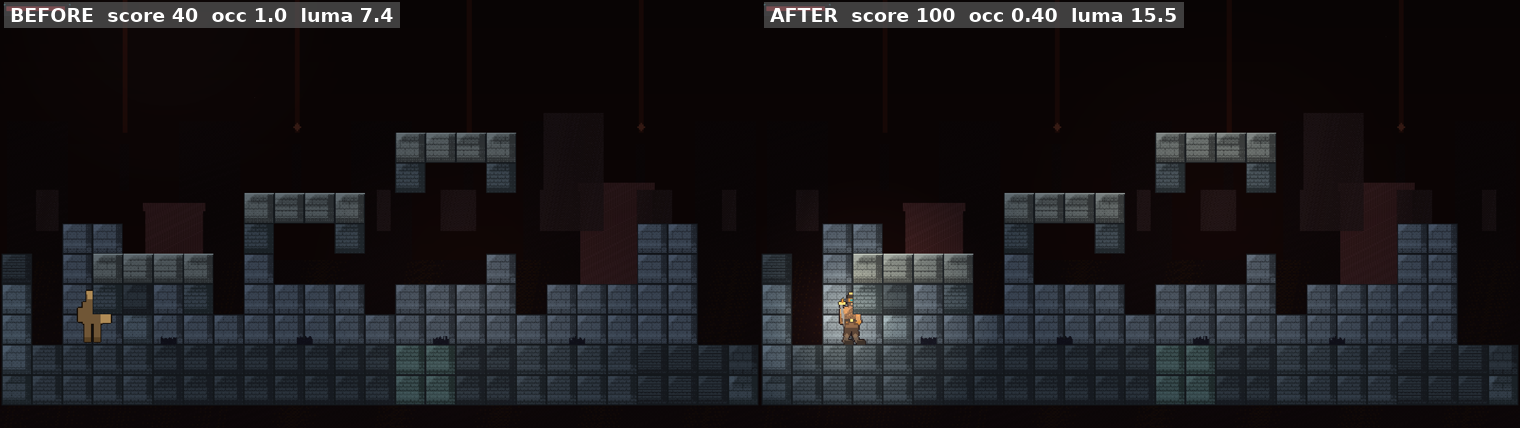
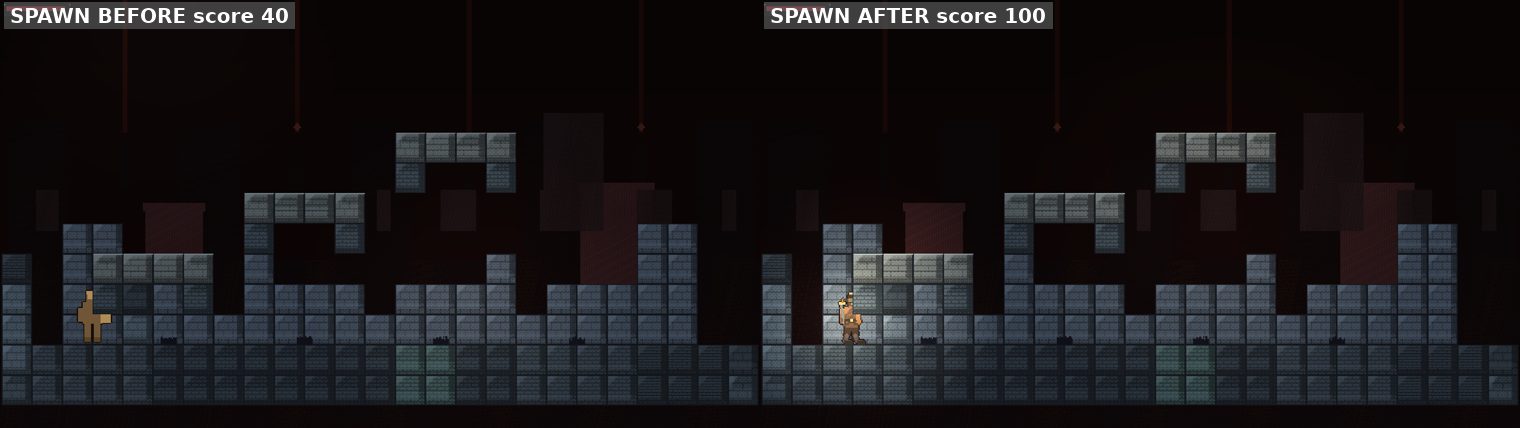
docs(review): refresh visual-direction packet for per-role identity HEAD
Resync human-review spawn still (4-pixel delta) and add other-agent Room 02/04/07
identity captures so the packet matches 91d16e1 / foundry-visual-slice-div1.
Diversity metric pass is recorded, not visual approval. visualSliceApproved stays
false; no gameplay files edited.

Changed region(s): [[0.4947, 0.0, 0.8039, 0.0911], [0.0, 0.0, 0.2783, 0.0911]]

diff --git a/review-artifacts/human-review/HUMAN_REVIEW.md b/review-artifacts/human-review/HUMAN_REVIEW.md
@@ -18,6 +18,7 @@ Studio path: `VisualReviewScreen` → IPC `decide-visual-slice-review` → write
 2. Walk/attack poses as distinct frames, not a 1px bob of a still.
 3. Palette / lighting language (soot, gunmetal, brass, spawn key light, shrine furnace).
 4. Tutorial spawn framing and Room 05 shrine composition (recessed furnace preserved).
+5. Per-role Foundry room identities landed after the first packet (rear-wall silhouette family + receded tint per gameplay role). Judge these under `environmentCoherence` / `roomComposition` / `tilesetQuality`. They are **not** a substitute for this human yes.
 
 **It does not:**
 
@@ -35,29 +36,33 @@ Human rubric (score in Studio, 1–5): `artCoherence`, `playerReadability`, `env
 
 | Field | Value |
 |---|---|
-| Package branch HEAD (pre-this-commit) | `eb12ea9` `docs(review): camera-visibility during-play audit + spawn-frame refinement evidence` |
-| Spawn-frame code commit | `89824e7` `fix(godot): tighten courier focal + lift mid-ground fill in spawn frame` |
-| Authored courier kit | `232922d` `feat(assets): ship original foundry courier actor art` |
-| Generation slug | `foundry-visual-slice-spawn2` |
+| Package branch HEAD | `91d16e1` `docs(review): diversity resolved (18/18 measured) + continuous camera recordings` |
+| Per-role room identity code | `f5af11b` `fix(godot): distinct per-role Foundry room identities…` |
+| Spawn-frame lighting | `89824e7` (tutorial spawn still almost unchanged; 4 pixels vs prior packet) |
+| Authored courier kit | `232922d` |
+| Generation slug | `foundry-visual-slice-div1` (was `spawn2`) |
 | Profile / mode / seed | `VISUAL_VERTICAL_SLICE` / `LOCAL_ONLY` / `20260909` |
 | Viewport / Godot | 1920×1080 windowed `opengl3` / `4.7.1.stable.official.a13da4feb` |
 | `visualSliceApproved` | **false** (`VISUAL_SLICE_REJECTED`) |
 | Actor maturity | **QA_REVIEW** (`authored-original`, `sourceType: manual`, `fallbackGenerated: false`) |
 
-### Stills attached to this revision (byte-identical)
+### Stills attached to this revision
 
 | Still | Path | sha256 prefix |
 |---|---|---|
-| Spawn (scored `qa/screenshot_gameplay.png`) | [spawn_current.png](spawn_current.png) = `review-artifacts/critic/screenshot_gameplay.png` | `9f1452c70da65891` |
-| Room 05 shrine | [room05_current.png](room05_current.png) = `review-artifacts/after/05_ability.png` | `2478d44ff449965a` |
+| Spawn (scored `qa/screenshot_gameplay.png`) | [spawn_current.png](spawn_current.png) = `review-artifacts/critic/screenshot_gameplay.png` | `2eddef154f46303c` |
+| Room 05 shrine | [room05_current.png](room05_current.png) = `review-artifacts/after/05_ability.png` | `2478d44ff449965a` (unchanged — shrine still `furnace_hearth`) |
+| Room 02 traversal identity | [room02_traversal_current.png](room02_traversal_current.png) | other-agent recapture |
+| Room 04 vertical identity | [room04_vertical_current.png](room04_vertical_current.png) | other-agent recapture |
+| Room 07 checkpoint identity | [room07_checkpoint_current.png](room07_checkpoint_current.png) | other-agent recapture |
 | Authored Wanderer 64px | `packages/assets/authored/foundry-courier/player.png` | `e1e78ce797ebc4c3` |
 | Authored tender 64px | `packages/assets/authored/foundry-courier/npc_000.png` | `5d52ace55b88437a` |
 
-Authored `player.png` is **pixel-identical** to `review-artifacts/player/player_after_64px.png` (24 opaque colors, 0 pixel diffs; PNG encoding differs: `e1e78ce7…` vs `8677d1ed…`).
+Spawn vs the first packet: **4 pixels** differ (far-plate hangers, bbox ~784,92–1581,203). Actor, key light, framing, HUD unchanged. Room 05 is **byte-identical**. Authored `player.png` remains pixel-identical to `review-artifacts/player/player_after_64px.png`.
 
 ### Agent boundary
 
-A Claude agent in VS Code owns spawn lighting (`QualityPresentation.gd`), the camera-visibility audit (`tools/camera_visibility_audit.gd`, `review-artifacts/camera-visibility/`), and the current spawn still. **This package only adds `review-artifacts/human-review/`** (plus a pointer in `review-artifacts/README.md`). No gameplay, camera, collision, furnace, HUD, pickup, or QA-threshold files were edited here.
+A separate Cursor/VS Code agent owns `QualityPresentation.gd`, `RoomTileMap.gd`, `tools/continuous_traversal_recorder.gd`, `review-artifacts/camera-visibility/`, and the div1 stills. **This refresh only updates `review-artifacts/human-review/`** so the packet matches HEAD. No gameplay, camera, collision, furnace, HUD, pickup, or QA-threshold files were edited here.
 
 ---
 
@@ -65,7 +70,7 @@ A Claude agent in VS Code owns spawn lighting (`QualityPresentation.gd`), the ca
 
 ![Current spawn](spawn_current.png)
 
-Spawn critic (`review-artifacts/critic/screenshot_critique.json`): **PASS score 100**, occupancy **0.400**, lumaStdDev **15.48**, **106** colors, issues `[]`. Same bytes as the still above.
+Spawn capture telemetry (`19:35Z` windowed GPU): uniqueColors **106**, lumaStdDev **15.48**. On-disk `screenshot_critique.json` still reads **PASS score 100**, occupancy **0.400**, same luma/colors (JSON file was not rewritten in `91d16e1`; luma/color match this PNG). 4-pixel delta vs the first packet does not change the critic.
 
 Camera (preserved): tutorial playable band ~`zoom=2.39 view=804×452 center=400,374` (target `2.40 / 800×450 / 400,375`). Spawn key light and receded far plate are in this still.
 
@@ -74,6 +79,16 @@ Camera (preserved): tutorial playable band ~`zoom=2.39 view=804×452 center=400,
 Shrine camera (preserved): `zoom=2.40 view=800×450 center=400,555`. Recessed furnace, coal bed, grate, rim, cream pickup outline, compact HUD.
 
 ![Room 05 furnace cavity](room05_furnace_cavity.png)
+
+### Per-role room identities (other agent, now on HEAD)
+
+Tutorial spawn and the shrine kept their prior silhouette families. Traversal / climb / checkpoint rooms now use distinct rear-wall families (colonnade, gallery wall, …) plus per-role receded tints. Collision fingerprints are reported identical. **Measured diversity PASS is not visual approval.**
+
+![Room 02 traversal identity](room02_traversal_current.png)
+
+![Room 04 vertical identity](room04_vertical_current.png)
+
+![Room 07 checkpoint identity](room07_checkpoint_current.png)
 
 ---
 
@@ -143,9 +158,9 @@ Policy: [../VISUAL_ACCEPTANCE.md](../VISUAL_ACCEPTANCE.md). Automated rows are t
 
 Playtest check names (`PlaytestRunner.gd`): `world_scene_loads`, `playtest_route_file_present`, `playtest_persona_configured`, `playtest_used_input_simulation`, `playtest_completed_transitions`, `playtest_reached_victory_flow`, `playtest_victory_state_or_boss_defeated`, `playtest_telemetry_emitted`. On-disk file is telemetry, not a fresh stdout log of the eight PASS lines; the recorded outcome matches 8/8.
 
-**Honesty on recapture timing:** playtest telemetry was recorded on the authored-courier spawn2 project **before** `89824e7` (focal/fill tighten). That commit is lighting-only; collision and route are unchanged. Spawn still + critic JSON **are** from `89824e7`/`eb12ea9`. Checks were **not** re-run for this packaging pass (evidence for the spawn still is current; playtest is equivalent, not HEAD-attached).
+**Honesty on recapture timing:** playtest telemetry is still the authored-courier run (`victory_rusher`, 38034ms). The other agent reports collision fingerprints identical `pr2` vs `div1` and playtest still 8/8. This packaging pass did **not** re-run Godot. Spawn still was recopied from the current critic PNG (`2eddef15…`).
 
-A separate VS Code agent recorded that **cross-room screenshot diversity** still fails the combined `gameplay_screenshot_qa` gate (rooms share a gunmetal-grid signature). That is a **tiles / MASS** issue. It does not replace this direction review, and a diversity fail is **not** visual approval either.
+**Cross-room diversity (other agent, measured):** `critiqueScreenshotDiversity` mean pairwise distance **8.52 → 13.81**, now **passes** (`review-artifacts/camera-visibility/DIVERSITY.md`, slice `foundry-visual-slice-div1`). That is a metric result, **not** Approve Visual Direction. Masonry tiles remain PLACEHOLDER.
 
 ---
 
@@ -159,7 +174,7 @@ A separate VS Code agent recorded that **cross-room screenshot diversity** still
 | NPC `npc_000` (tender) | Authored kit | **QA_REVIEW** | No | Same |
 | Enemies | 4 enemy ids (`PROFILE_DEFAULTS`) + sheets | **PLACEHOLDER** | **No** — MASS-gated later work | **Yes** for finished slice |
 | Boss | 1 (`boss_final`) + sheets | **PLACEHOLDER** | No | **Yes** (`bossPresentation`) |
-| Tiles / masonry | 1 biome tileset (floor, walls, platforms, one-way, …) | **PLACEHOLDER** | No (reviewers still score `tilesetQuality`) | **Yes**; also the diversity fail |
+| Tiles / masonry | 1 biome tileset (floor, walls, platforms, one-way, …) | **PLACEHOLDER** (rear-wall *layout* now per-role) | No (reviewers still score `tilesetQuality`) | **Yes** — production tile art still later |
 | VFX | 9 textures: `hit_spark`, `death_puff`, `dash_trail`, `pickup_spark`, `ability_unlock`, `boss_phase_shift`, `area_burst`, `slam_shock`, `landing_dust` | **PLACEHOLDER** | No | **Yes** (`vfxIntegration`) |
 | HUD chrome | `UI_FOUNDRY_ASSETS` (`hud_frame`, `health_meter`, `boss_bar`, panels, icons, …) | **PLACEHOLDER** / generated panels; capture uses a compact StyleBoxFlat health bar | No | **Yes** (`hud`) |
 

diff --git a/review-artifacts/README.md b/review-artifacts/README.md
@@ -4,7 +4,7 @@ PR: https://github.com/alexandnevaeh-dev/MetroForgeSis/pull/4 (draft)
 Branch: `cursor/foundry-visual-recapture-acbb`  
 Visual approval: **rejected as a finished slice**. MASS / LARGE / RC stay **blocked**. Do not merge.
 
-**Human “Approve Visual Direction” packet (this revision):** [human-review/HUMAN_REVIEW.md](human-review/HUMAN_REVIEW.md). That packet is not approval. Camera-visibility audit and spawn-frame notes below are from a separate VS Code agent pass and were not rewritten here.
+**Human “Approve Visual Direction” packet (this revision):** [human-review/HUMAN_REVIEW.md](human-review/HUMAN_REVIEW.md) (refreshed for HEAD `91d16e1` / slug `div1`). That packet is not approval. Camera-visibility, diversity metric, and per-role identity stills below are from a separate agent pass.
 
 **Current actor pass:** original authored courier art (`packages/assets/authored/foundry-courier/`) replaces the 4-color procedural silhouettes. See [VISUAL_ACCEPTANCE.md](VISUAL_ACCEPTANCE.md), [assets/PROVENANCE.md](assets/PROVENANCE.md), and 8× comparisons in [assets/](assets/). Passing screenshot QA or playtest is **not** Approve Visual Direction.
 
